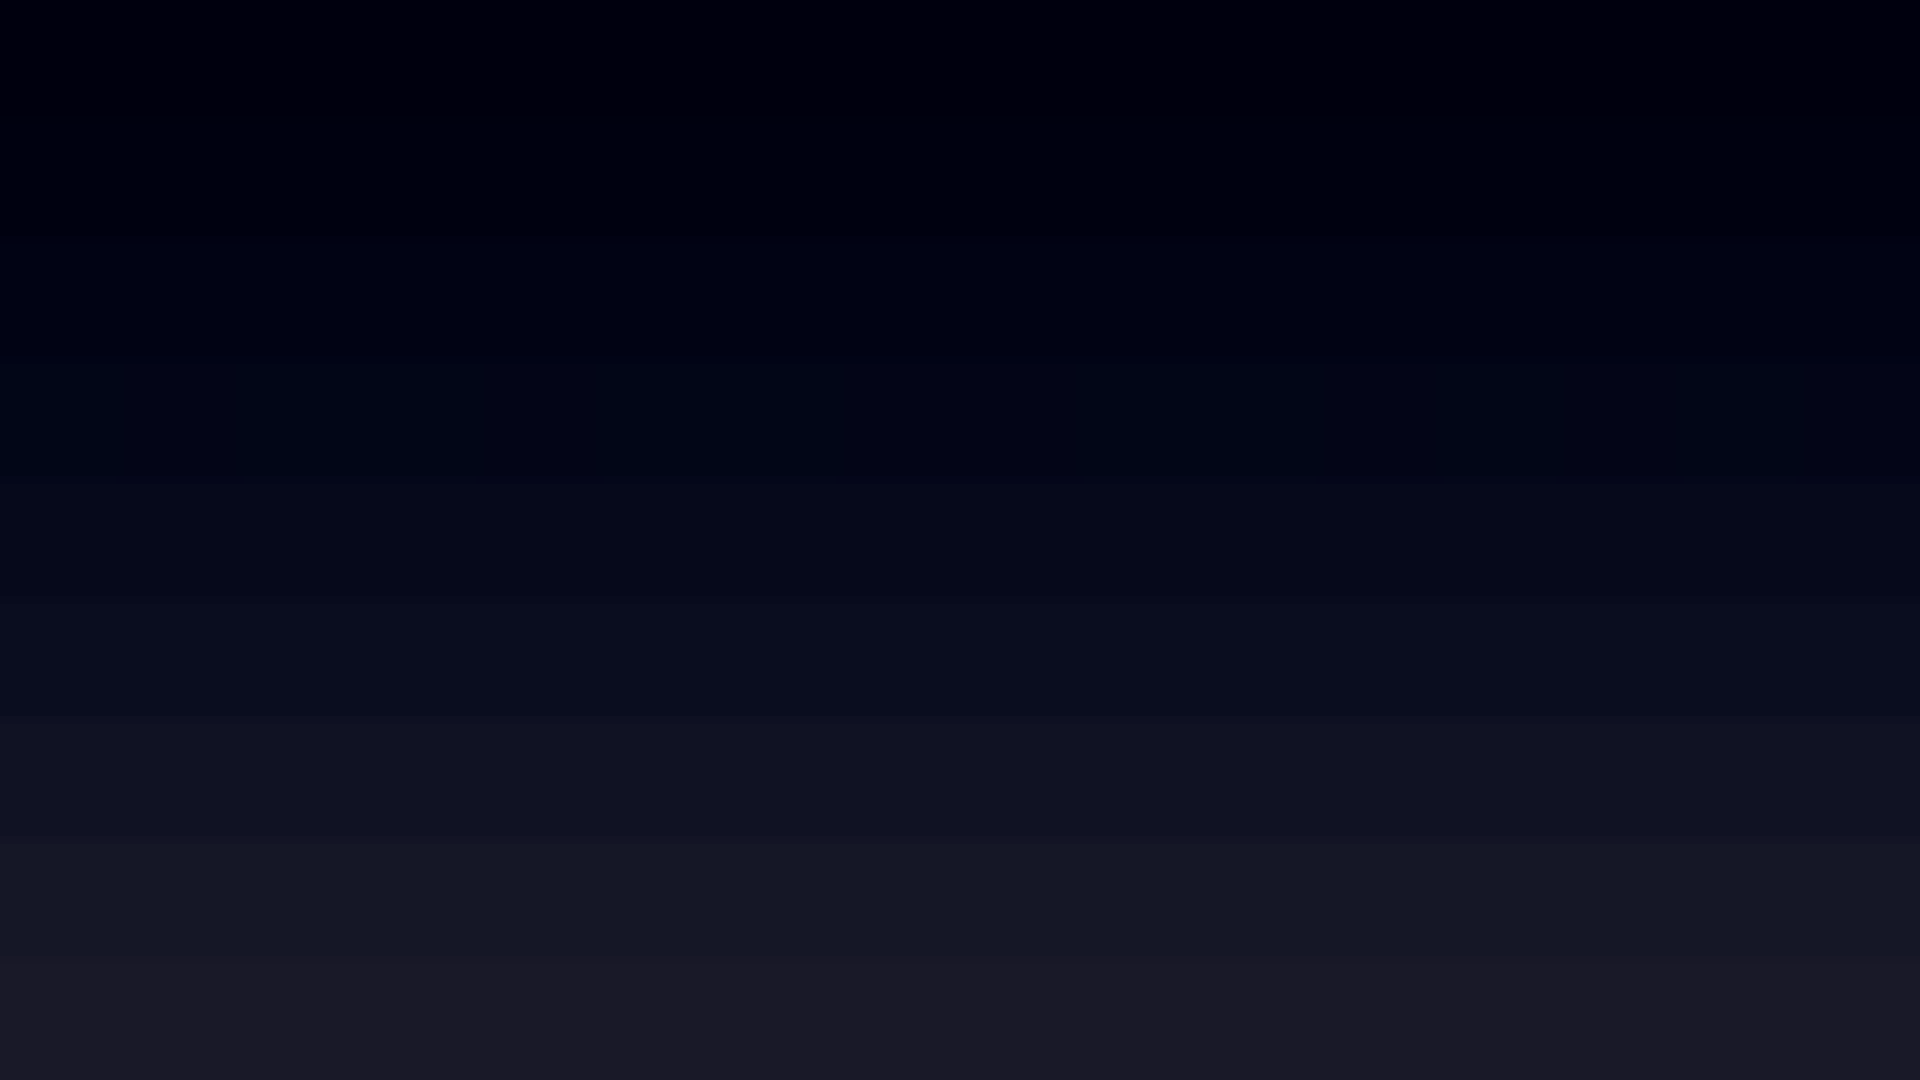
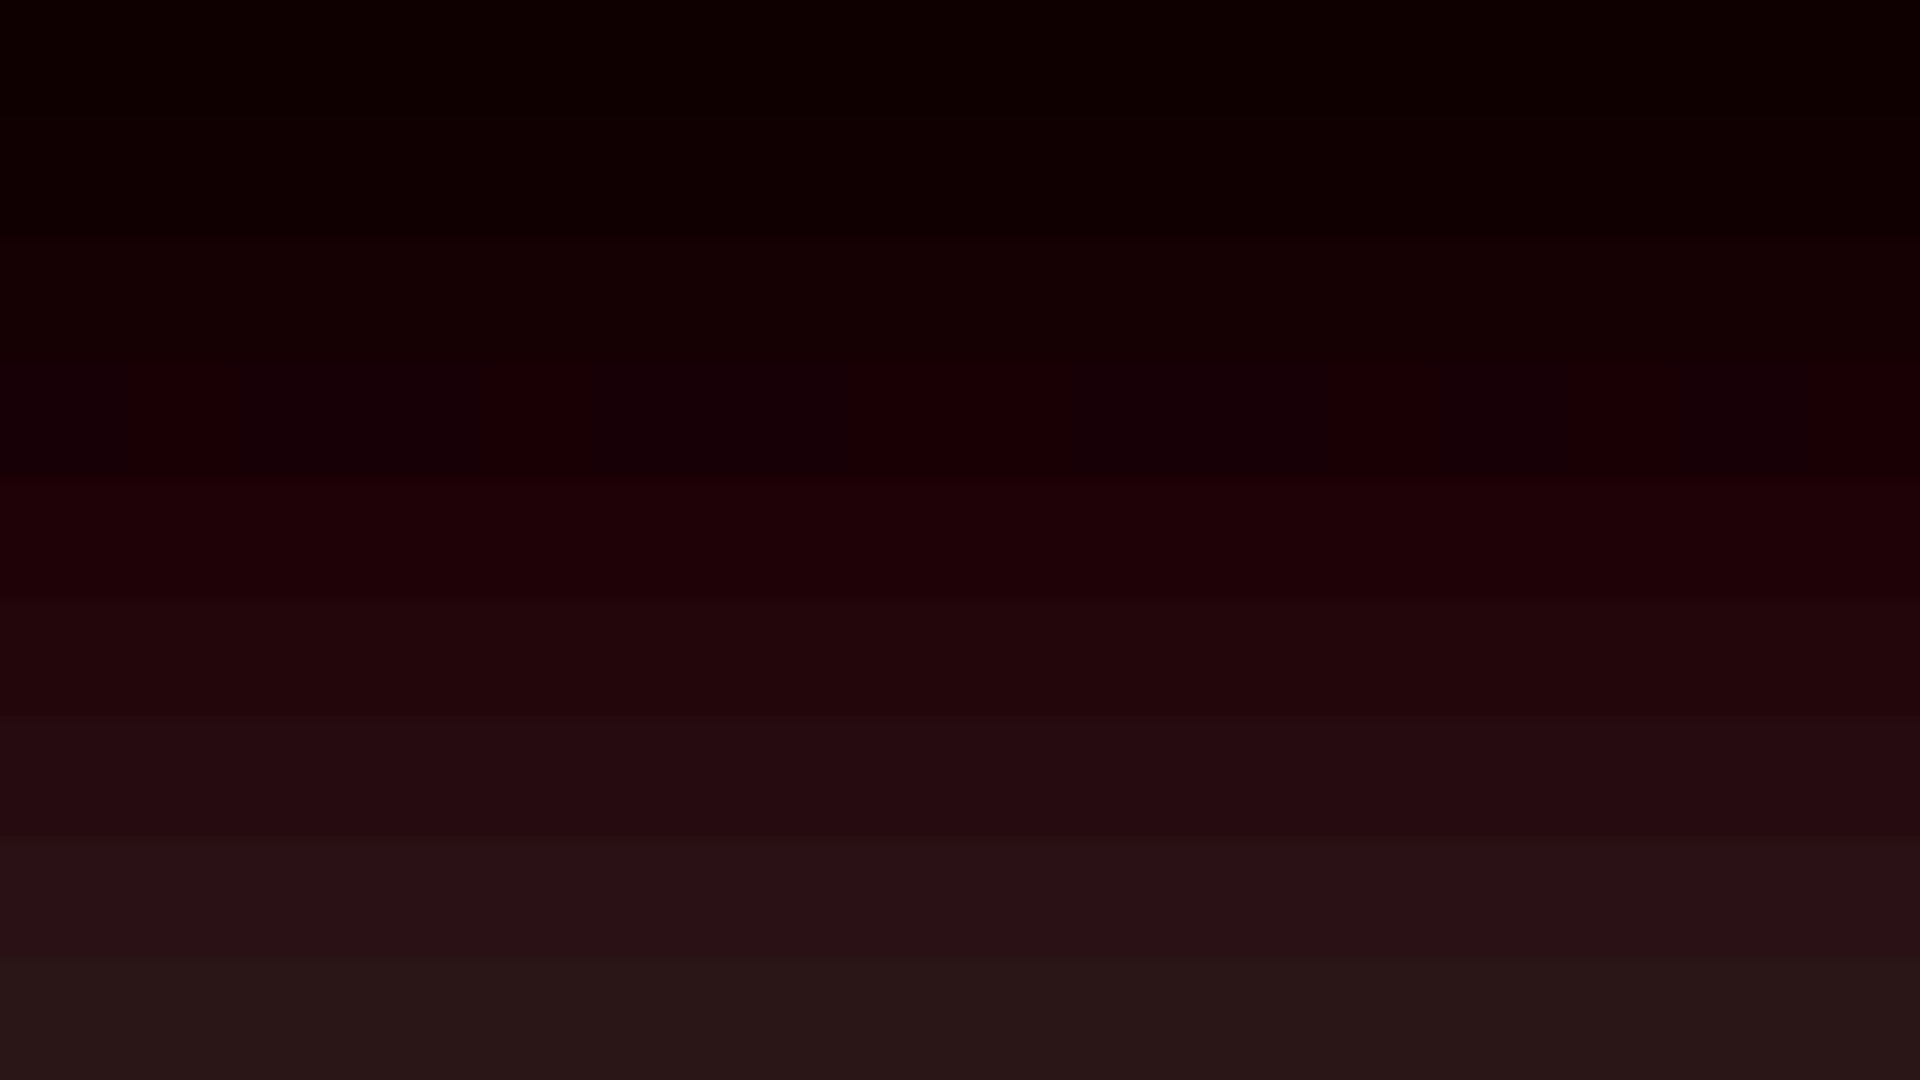
Mudança no layout

Changed region(s): [[0.0, 0.4278, 1.0, 0.6722]]

diff --git a/css/new_startingsoon.css b/css/new_startingsoon.css
@@ -1,0 +1,37 @@
+*, *::before, *::after {
+	margin: 0;
+	padding: 0;
+	box-sizing: border-box;
+}
+
+main {
+	display: flex;
+	flex-direction: column;
+}
+
+.top {
+	height: 80vh;
+	background: url('../assets/bg_top.png');
+	background-size: cover;
+	background-position: center;
+}
+
+.top h1 {
+	color: blue;
+}
+
+@keyframes bgBot {
+	0% {
+		background-position: 0vw 0;
+	}
+	100% {
+		background-position: 100vw 0;
+	}
+}
+
+.bottom {
+	height: 20vh;
+	background: url('../assets/bg_bot.png');
+	background-size: cover;
+	animation: bgBot 40s linear infinite;
+}

diff --git a/css/starting-soon.css b/css/starting-soon.css
@@ -1,4 +1,6 @@
-
+:root {
+	--title: #eb2618;
+}
 
 @font-face {
 	font-family: 'Saturn';
@@ -103,7 +105,7 @@
 	position: absolute;
 	top: 0;
 	left: 0;
-	background: linear-gradient(rgba(9, 10, 27, 0.9) 10%, rgba(0,0,0,0) 90%)
+	background: linear-gradient(rgba(59, 17, 17, 0.9) 10%, rgba(0,0,0,0) 90%)
 }
 
 .frontground {
@@ -157,7 +159,7 @@
 }
 
 .title {
-	color: #5769bc;
+	color: var(--title);
 	text-shadow: 2px 2px #fff;
 	font-size: 70px;
 	animation: titleanim 2s linear infinite;

diff --git a/new_startingsoon.html b/new_startingsoon.html
@@ -1,0 +1,21 @@
+<!DOCTYPE html>
+<html lang="en">
+<head>
+	<meta charset="UTF-8">
+	<meta http-equiv="X-UA-Compatible" content="IE=edge">
+	<meta name="viewport" content="width=	, initial-scale=1.0">
+	<title>Document</title>
+	<link rel="stylesheet" href="./css/new_startingsoon.css">
+</head>
+<body>
+	<main>
+		<div>
+
+		</div>
+		<div class="top">
+			<h1>A live já vai começar</h1>
+		</div>
+		<div class="bottom"></div>
+	</main>
+</body>
+</html>
